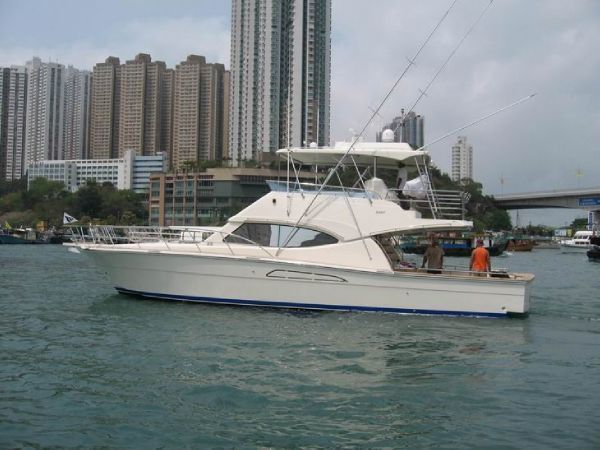
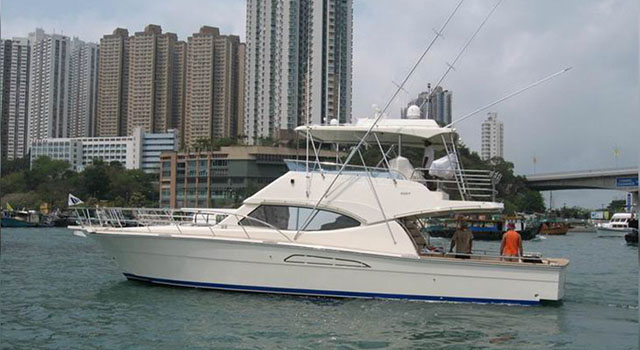
14

diff --git a/css.css b/css.css
@@ -81,13 +81,14 @@ h6{
 
 
 .topbg {
-	max-width:1440px;
+	width:100%;
 	height:750px;
 	background: #000 center center no-repeat;
     -moz-background-size: cover;
     background-size: cover;
 	position:relative;
 	}
+	
 	
 .menubg{
 	
@@ -431,6 +432,8 @@ h6{
 	
 .craft-list{
 	width:90%;
+	max-width:1286px;
+	/*width:1286px;*/
 	height:350px;
 	margin:0 auto;
 	padding-top:90px;
@@ -498,7 +501,7 @@ h6{
 	cursor:pointer;
 	}
 #craft46{
-	background-image:url(images/craft46.jpg);
+	background:url(images/craft46.jpg) no-repeat center ;
 	}
 
 #craft48{

diff --git a/index.html b/index.html
@@ -2,6 +2,7 @@
 <html xmlns="http://www.w3.org/1999/xhtml">
 <head>
 <meta http-equiv="Content-Type" content="text/html; charset=utf-8" />
+
 <link rel=stylesheet type="text/css" href="css.css">
 <link rel="shortcut icon" href="logo.ico"/>
 <link rel="bookmark" href="logo.ico"/>
